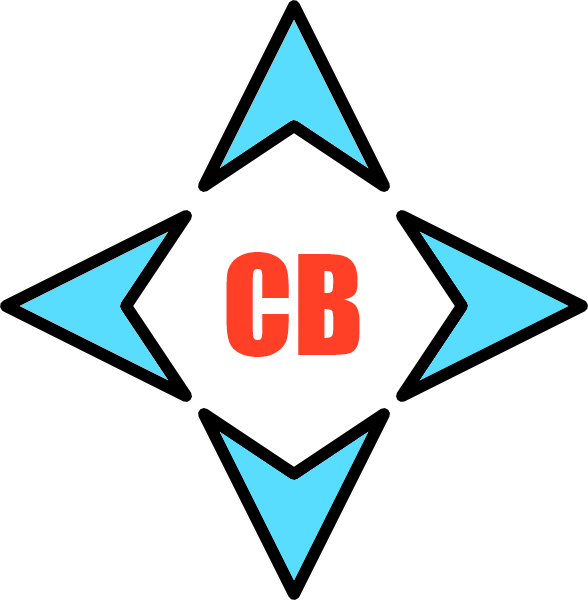
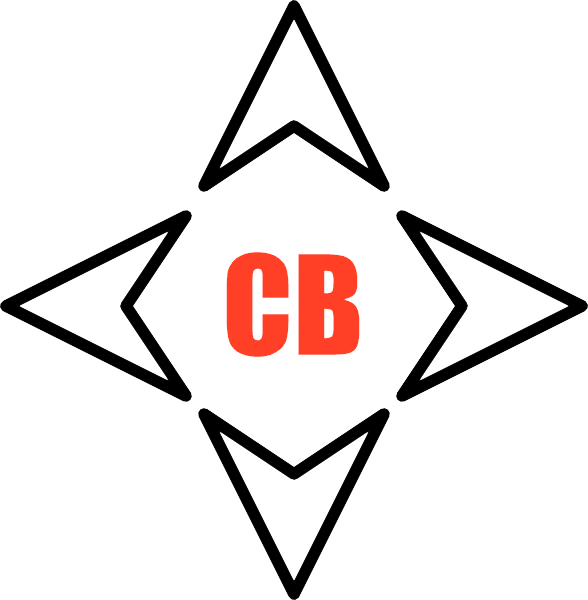
helper mode arrows

diff --git a/js/engine/main.js b/js/engine/main.js
@@ -176,7 +176,11 @@ function initGame(screenWidth, screenHeight, generatedTrack, learningMode) {
 	// GENERATE AND DIPSLAY CHECKPOINT VALUES
 	generateChekpointValues();
 	setGUIvalues();
-	
+	if (is_learning_mode) {
+		displayHelpLabel(currentCheckpoint.orientation);
+	} else {
+		$("#arrowImg").attr("src", "img/other/4wayArrow.png");	
+	}
 	// SPACESHIP
 	createSpaceShip();
 	
@@ -404,7 +408,7 @@ function clearGUIvalues() {
 	$("#gui_left").text("");
 }
 
-function setGUIvalues(up, right, down, left) {
+function setGUIvalues() {
 	for(var i=0; i < allCheckpointValues[currentSectionId].length; i++) {
 		var checkP = allCheckpointValues[currentSectionId][i];
 		$("#gui_" + checkP.orientation).text(String(checkP.value));
@@ -415,6 +419,7 @@ function colorGUIselection() {
 	if(lastOrientation == orientation)
 		return;
 	
+	$("#arrowImg").attr("src", "img/other/4wayArrow_" + orientation + ".png");
 	$("#gui_" + orientation).css("color", "red");
 	lastOrientation = orientation;
 }
@@ -424,6 +429,7 @@ function clearGUIselection() {
 	$("#gui_right").css("color", "white");
 	$("#gui_down").css("color", "white");
 	$("#gui_left").css("color", "white");
+	$("#arrowImg").attr("src", "img/other/4wayArrow.png");
 	lastOrientation = null;
 }
 
@@ -451,10 +457,6 @@ function animate() {
 					playChord(currentChord, chord_sequence[pos].time_duration);
 					currentDurration = chord_sequence[pos].time_duration;
 					pos++; 
-					
-					// display help label
-					if(is_learning_mode)
-						displayHelpLabel(currentChord);
 				}
 			}
 			else {
@@ -469,11 +471,8 @@ function animate() {
 }
 
 // display help label
-function displayHelpLabel(answer) {
-	$("#helpLabel").css("display", "none");
-	$("#helpLabel").css("bottom", "0");
-	$("#helpLabel").fadeIn(100).animate( {bottom: "50%", left: "7%"}, 350 );
-	$("#helpLabel").text(answer);
+function displayHelpLabel(orientation) {
+	$("#arrowImg").attr("src", "img/other/4wayArrow_" + orientation + "_help.png");
 }
 
 // render loop 
@@ -571,6 +570,8 @@ function render(delta_t) {
 				clearGUIvalues();
 				generateChekpointValues();
 				setGUIvalues();
+
+				displayHelpLabel(currentCheckpoint.orientation);				
 			}
 		}
 				

diff --git a/index.html b/index.html
@@ -129,7 +129,8 @@
 					<button id="credits_backBtn" ng-click="toMenu()">back</button>
 					<label>Credits</label>
 				</div>
-				WE DUN' DID IT
+				<h2>Created by:</h2>
+				<h3></h3>
 			</div>
 			<div id="container" ng-hide="activeView != 'gameView'"></div>
 			<div id="gui">
